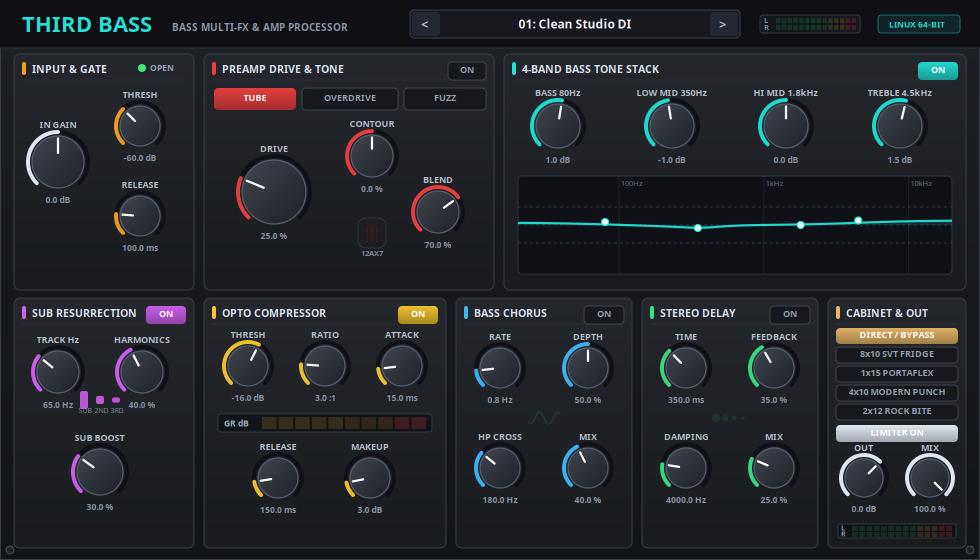
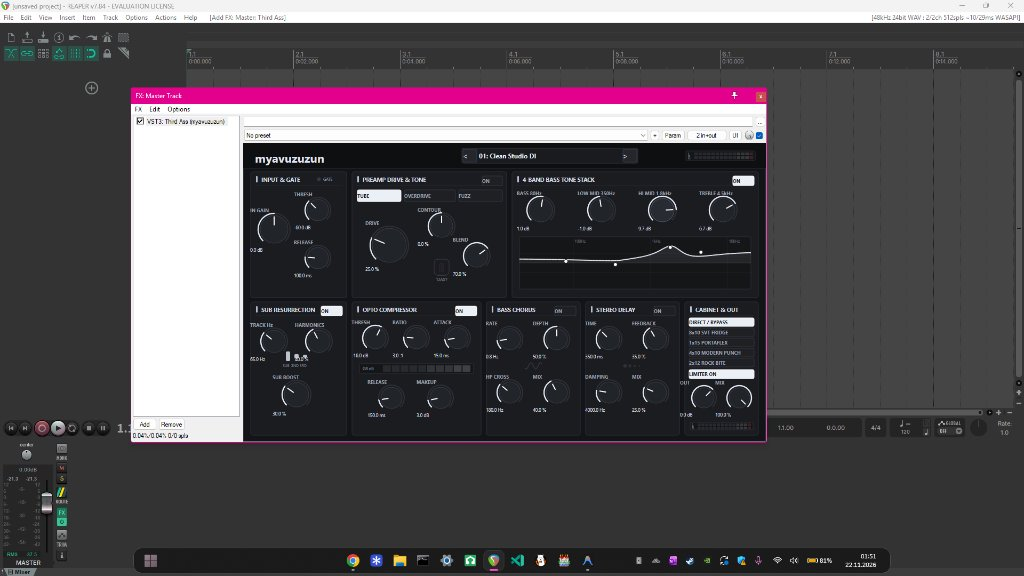
Update thirdass preview screenshot and embed in README

diff --git a/README.md b/README.md
@@ -2,6 +2,8 @@
 
 A high-performance, native 64-bit bass amplifier simulator and multi-effects processor for electric bass guitars, synth basses, and low-end sound design.
 
+![Third Ass UI Preview](thirdass_preview.png)
+
 Built on open-source clean-room architectures providing dual output formats:
 - **VeSTige**: Native 64-bit DLL for LMMS (VeSTige) and Windows DAWs.
 - **VST3**: Modern VST3 format (`.vst3` bundle) for modern DAWs (Cubase, REAPER, Ableton Live, Studio One, FL Studio, Bitwig) without requiring bridges, wrappers, or proprietary SDK dependencies.
